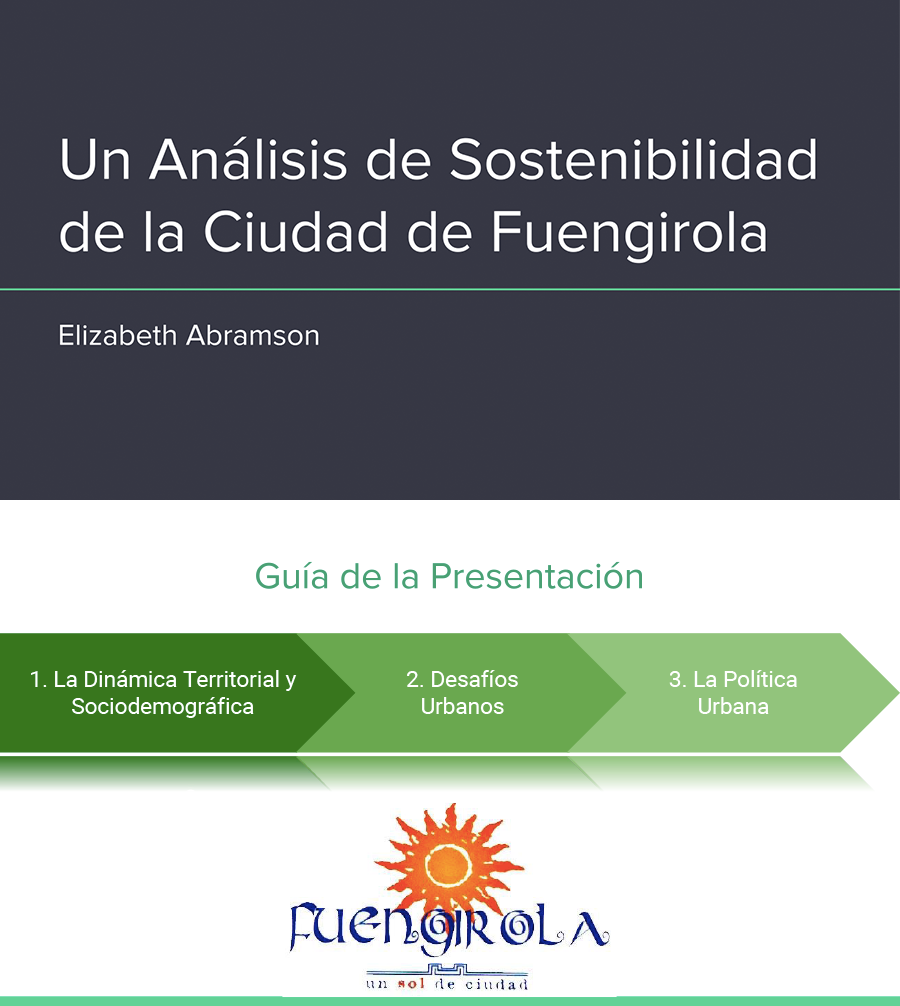
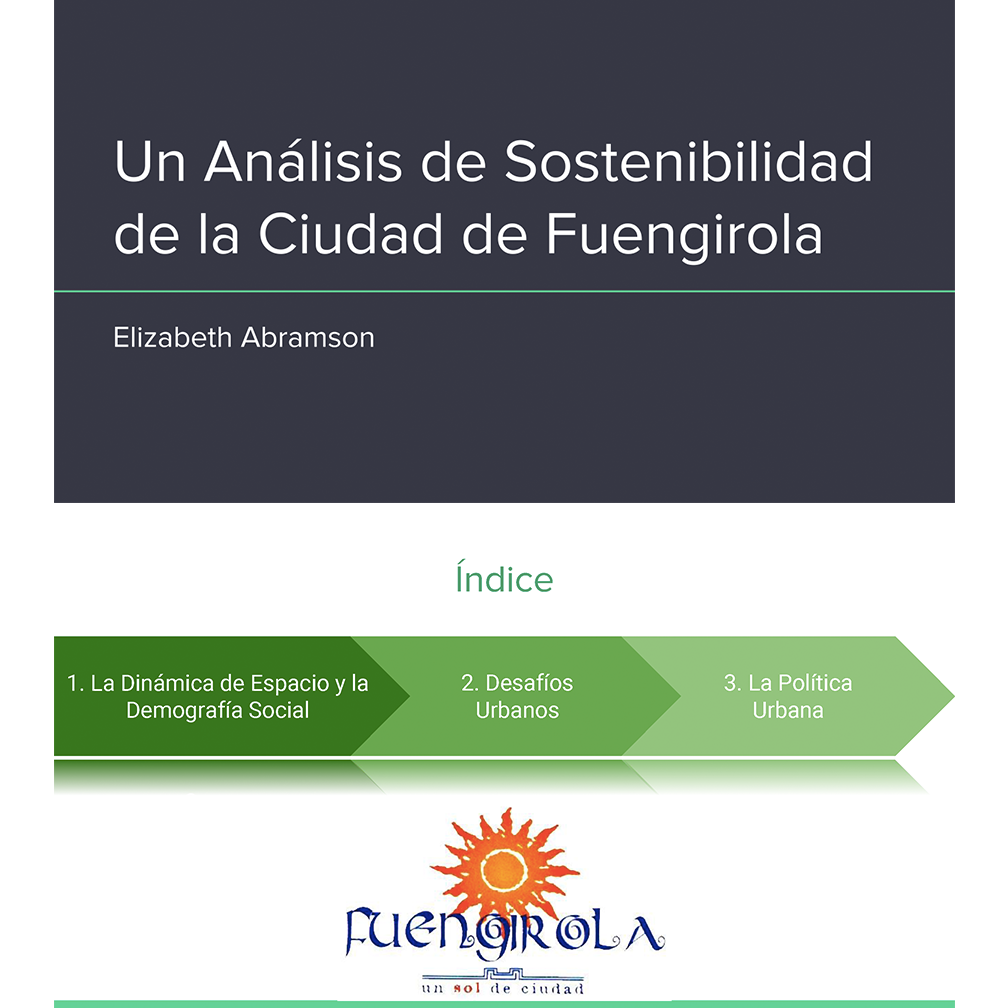
fuen

diff --git a/portfolio/work12/index.html b/portfolio/work12/index.html
@@ -2,7 +2,7 @@
 <html lang="en-us">
 <head><meta charset="utf-8">
 <meta http-equiv="X-UA-Compatible" content="IE=edge">
-<title>A Sustainability Analysis of the City of Fuengirola</title>
+<title>Analyzing the Sustainability of a Coastal Spanish City</title>
 <meta name="description" content="A portfolio site for Elizabeth Abramson">
 <meta name="viewport" content="width=device-width, initial-scale=1">
 <meta name="robots" content="all,follow">
@@ -117,8 +117,128 @@ if (!doNotTrack) {
   <div class="row">
     <div class="col-lg-8">
       <div class="content-column-content">
-         <h1>A Sustainability Analysis of the City of Fuengirola</h1>
-         <p>Content coming soon!</p>
+         <h1>Analyzing the Sustainability of a Coastal Spanish City</h1>
+         <p>While studying abroad in Granada, Spain, I enrolled in a class at the University of Granada focused on the sustainable planning and management of urban spaces.</p>
+
+<p>For my final project, I conducted a case study on the coastal city of Fuengirola. The following slides are from my final presentation in that class.</p>
+
+<blockquote>
+<p>It was an exciting challenge to conduct research relying entirely on Spanish sources. This project required reading through extensive Spanish planning and policy documents and gathering demographic and economic data from Spanish government sources.
+Presenting my findings to a room full of local university students was an experience that challenged me to grow and to recognize that although my Spanish would not be perfect, I had something worth saying.</p>
+</blockquote>
+
+<p><img src="/img/FuenSlides_Page_01.png" alt="FuenSlides_Page_01" /></p>
+
+<p>A Sustainability Analysis of the City of Fuengirola</p>
+
+<p><img src="/img/FuenSlides_Page_02.png" alt="FuenSlides_Page_02" /></p>
+
+<p>Contents
+1. Spatial Dynamics and Social Demographics
+2. Urban Challenges
+3. Urban Politics</p>
+
+<p><img src="/img/FuenSlides_Page_03.png" alt="FuenSlides_Page_03" /></p>
+
+<p>Spatial Dynamics and Social Demographics</p>
+
+<p><img src="/img/FuenSlides_Page_04.png" alt="FuenSlides_Page_04" /></p>
+
+<p>Introduction to Fuengirola</p>
+
+<p>Fuengirola is located in the heart of the Costa del Sol (Sun Coast) in the province of Málaga. The city is located 30 kilometers southeast of the city of Málaga, along the shore of the Mediterranean Sea. The city spans 10.2 square kilometers and occupies a narrow 8 kilometer strip of the coast. This coastal area is divided into seven urban beaches, all suitable for swimming and accessible from the boardwalk.</p>
+
+<p><img src="/img/FuenSlides_Page_05.png" alt="FuenSlides_Page_05" /></p>
+
+<p>Introduction to Fuengirola</p>
+
+<p>Fuengirola is bordered to the North, West, and South by the city of Mijas. It is bordered by the city of Benalmádena to the East. The city is part of the Association of Cities of the Western Costa del Sol, an institution comprised of eleven cities in the province of Málaga. This association jointly manages services including the promotion of tourism, urban planning and social welfare projects, and the management of water and waste.</p>
+
+<p><img src="/img/FuenSlides_Page_06.png" alt="FuenSlides_Page_06" /></p>
+
+<p>Growth of the Tourism Sector</p>
+
+<p>Along with several other cities along the Costa Del Sol, Fuengirola’s appeal as a tourist destination began growing in the 1950s.</p>
+
+<p><img src="/img/FuenSlides_Page_07.png" alt="FuenSlides_Page_07" /></p>
+
+<p>Impact of Tourism on Urban Land</p>
+
+<p>As Fuengirola;s tourist appeal has grown, the city has seen an increased demand for housing and lodging and a proliferation of commercial activity and business in the service industry. As a result, basically all of the land in the city is now fully urbanized. The city’s urban growth has led to the formation of an coastal urban agglomeration that extends past official city boundaries, connecting Fuengirola to the city of Mijas.</p>
+
+<p><img src="/img/FuenSlides_Page_08.png" alt="FuenSlides_Page_08" /></p>
+
+<p>Growth of Population and Density</p>
+
+<p>As Fuengirola’s appeal as a tourist destination has grown, the city’s population has increased dramatically. Today, Fuengirola has a population of nearly 75,000 residents and a population density of roughly 7,000 people per square kilometer. This density rate, exceptionally high among neighboring cities, is the result of the rapid population growth coupled with lax planning that has allowed for highly dense housing construction. As a tourist destination, Fuengirola also experiences a seasonal population influx, with nearly 200,000 visitors inhabiting the city during the summer. This population influx complicates city planning and management.</p>
+
+<p><img src="/img/FuenSlides_Page_09.png" alt="FuenSlides_Page_09" /></p>
+
+<p>Population Profile</p>
+
+<p>Unlike the province of Málaga as a whole, Fuengirola has experienced a consistent increase in the median age of its residents. This can be attributed largely to the growing number of retired and aging people who have moved to Fuengirola to enjoy its beaches, sun, and tourist attractions.</p>
+
+<p><img src="/img/FuenSlides_Page_10.png" alt="FuenSlides_Page_10" /></p>
+
+<p>Tourist Economy</p>
+
+<p>Tourism has increasingly become the central pillar of Fuengirola’s economy. While economic activities related to hospitality, entertainment, and real estate have grown, primary sectors such as agriculture and industry have declined. Fuengirola’s increasing dependence on foreign capital and seasonal tourism present potential risks for the city.</p>
+
+<p><img src="/img/FuenSlides_Page_11.png" alt="FuenSlides_Page_11" /></p>
+
+<p>Urban Challenges</p>
+
+<p><img src="/img/FuenSlides_Page_12.png" alt="FuenSlides_Page_12" /></p>
+
+<p>Character and Consequences of Development</p>
+
+<p>The nearly complete urbanization of land in Fuengirola presents serious environmental problems. Among these problems is the proliferation of impermeable surfaces, which increases flood risk as well as extreme heat in the city. In addition, the city’s urban growth has been characterized by the proliferation of non-conforming and irregular land uses.</p>
+
+<p><img src="/img/FuenSlides_Page_13.png" alt="FuenSlides_Page_13" /></p>
+
+<p>Character and Consequences of Development</p>
+
+<p>Lack of comprehensive planning during the city’s period of rapid urban expansion has lead to numerous mobility and connectivity issues. These issues, such as streets lacking sidewalks, poor highway drainage, and highway lanes without sufficient room to accelerate and decelerate, have lead to accidents, flooding, and traffic congestion. With greater numbers of pedestrians and drivers in summer months, congestion is exacerbated and emissions rise during the tourist season.</p>
+
+<p><img src="/img/FuenSlides_Page_14.png" alt="FuenSlides_Page_14" /></p>
+
+<p>General Overview of Challenges</p>
+
+<p>Development in Fuengirola has been characterized by a drive to maximize immediate benefits while failing to plan for the long term or to prioritize the well-being of the city as a whole. This has resulted in the displacement of local residents and increased environmental degradation. In addition, the city’s rapid development threatens the longevity of its now most important economic sector: tourism. Dense development along the beaches and a general sense of overcrowding in the city could decrease Fuengirola’s appeal as a tourist destination.</p>
+
+<p><img src="/img/FuenSlides_Page_15.png" alt="FuenSlides_Page_15" /></p>
+
+<p>Urban Politics</p>
+
+<p><img src="/img/FuenSlides_Page_16.png" alt="FuenSlides_Page_16" /></p>
+
+<p>City Planning Guides</p>
+
+<p>Fuengirola’s official city plan, enacted in 2011, emphasizes the city’s goals of becoming more orderly, sustainable, efficient and equitable. The plan outlines several initiatives to improve mobility, connection, environmental health, and social well-being, among other issues.</p>
+
+<p>A regional plan enacted by cities along the Costa del Sol in 2007 similarly sets goals for equitable and environmentally sustainable regional development. This plan places special emphasis on improving mobility and accessibility.</p>
+
+<p>Development in Fuengirola is also guided by a 2011 assessment as part of Agenda 21, a program of the United Nations. This plan stresses citizen participation and environmental management at the local level.</p>
+
+<p><img src="/img/FuenSlides_Page_17.png" alt="FuenSlides_Page_17" /></p>
+
+<p>Environmental Initiatives</p>
+
+<p>The city has begun, or has outlined plans to begin, several environmental initiatives, including the creation of “Green Zones,” increased renewable energy requirements, environmental education campaigns, and more sustainable waste management practices. As of May 2018, 330,000 square meters of green zones had been established through a joint effort of the city councils for Urbanism and Green Zones.</p>
+
+<p><img src="/img/FuenSlides_Page_18.png" alt="FuenSlides_Page_18" /></p>
+
+<p>Mobility and Connectivity</p>
+
+<p>Efforts are also underway to improve the city’s public transit system. This includes expanding the fleet of city buses, switching to more energy efficient trains, and creating more bicycle lands and infrastructure. A plan to centralize traffic and transportation in the city is expected to reduce traffic and accidents.</p>
+
+<p><img src="/img/FuenSlides_Page_19.png" alt="FuenSlides_Page_19" /></p>
+
+<p>Best Practices</p>
+
+<p>Everything proposed in the official city plan is possible for the city to achieve without borrowing money or exceeding the set budget. The city should continue pursuing economic sustainability along with environmental health and social well-being.</p>
+
+<p>Fuengirola has earned acclaim for the transparency of its government. The city should continue making an effort to operate transparently in order to promote political stability and citizen engagement.</p>
          
       </div>
     </div>

diff --git a/portfolio/index.html b/portfolio/index.html
@@ -340,30 +340,6 @@ if (!doNotTrack) {
                   <div class="box-masonry">
                       
                         
-                        <a href="/portfolio/work12/" title="" class="box-masonry-image with-hover-overlay">
-                        
-                            <img src="/img/FuengirolaCover.png" alt="" class="img-responsive">
-                        </a>
-                      
-                      
-                      <div class="box-masonry-hover-text-header">
-                      
-                          <h4><a href="/portfolio/work12/">A Sustainability Analysis of the City of Fuengirola</a></h4>
-                          <div class="box-masonry-description">
-                            <p>
-                                
-                                  <p>Content coming soon!</p>
-                                
-                            </p>
-                          </div>
-                      </div>
-                  </div>
-              </div>
-          
-              <div class="col-xs-12 col-sm-6 col-md-4 col-lg-3 masonry-item">
-                  <div class="box-masonry">
-                      
-                        
                         <a href="/portfolio/work6/" title="" class="box-masonry-image with-hover-overlay with-hover-icon">
                         
                             <img src="/img/MayorTweets.png" alt="" class="img-responsive">
@@ -377,6 +353,30 @@ if (!doNotTrack) {
                             <p>
                                 
                                   <p>I worked with classmates to produce this sentiment analysis of local news headlines and tweets.</p>
+                                
+                            </p>
+                          </div>
+                      </div>
+                  </div>
+              </div>
+          
+              <div class="col-xs-12 col-sm-6 col-md-4 col-lg-3 masonry-item">
+                  <div class="box-masonry">
+                      
+                        
+                        <a href="/portfolio/work12/" title="" class="box-masonry-image with-hover-overlay">
+                        
+                            <img src="/img/FuengirolaCover.png" alt="" class="img-responsive">
+                        </a>
+                      
+                      
+                      <div class="box-masonry-hover-text-header">
+                      
+                          <h4><a href="/portfolio/work12/">Analyzing the Sustainability of a Coastal Spanish City</a></h4>
+                          <div class="box-masonry-description">
+                            <p>
+                                
+                                  <p>While studying abroad in Granada, Spain, I enrolled in a class at the University of Granada focused on the sustainable planning and management of urban spaces.</p>
                                 
                             </p>
                           </div>

diff --git a/portfolio/work11/index.html b/portfolio/work11/index.html
@@ -131,7 +131,7 @@ if (!doNotTrack) {
 <blockquote>
 <p>I learned to use Atlas.ti Qualitative Data Analysis &amp; Research Software in order to code interviews for this project</p>
 
-<p>This project also allowed me to engage closely with local stakeholders and to elevate their perspectives through public scholarship</p>
+<p>This project also allowed me to engage closely with local stakeholders and to draw attention to their perspectives through public scholarship</p>
 </blockquote>
          
       </div>
